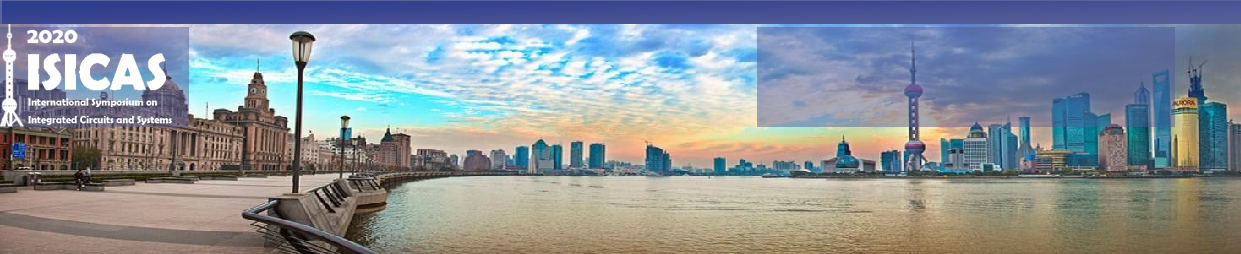
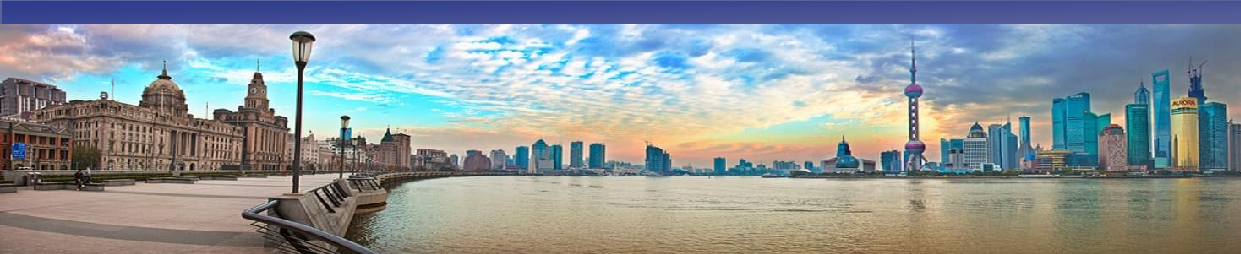
change the background back

Changed region(s): [[0.6124, 0.0827, 0.9492, 0.5236], [0.0, 0.0827, 0.1531, 0.5236]]

diff --git a/index.css b/index.css
@@ -87,7 +87,7 @@ a:active {
 }
 
 #title h2 {
-	color:#ffffff;
+	color:#000000;
 	font: 15px Lucida Grande, helvetica, arial, sans-serif;
 	font-weight: bold;
 	border:0;
@@ -96,7 +96,7 @@ a:active {
 
 
 #title p {
-	color:#ffffff;
+	color:#000000;
 	font: 100% Lucida Grande, helvetica, arial, sans-serif;
 	font-weight: bold;
 }
